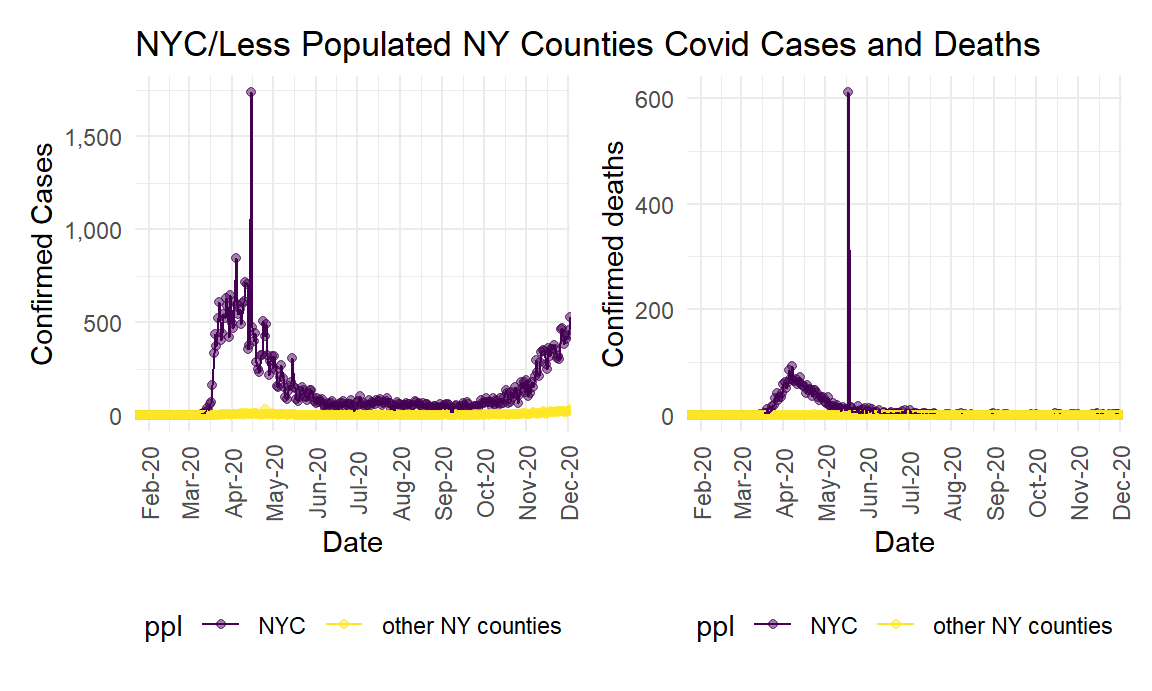
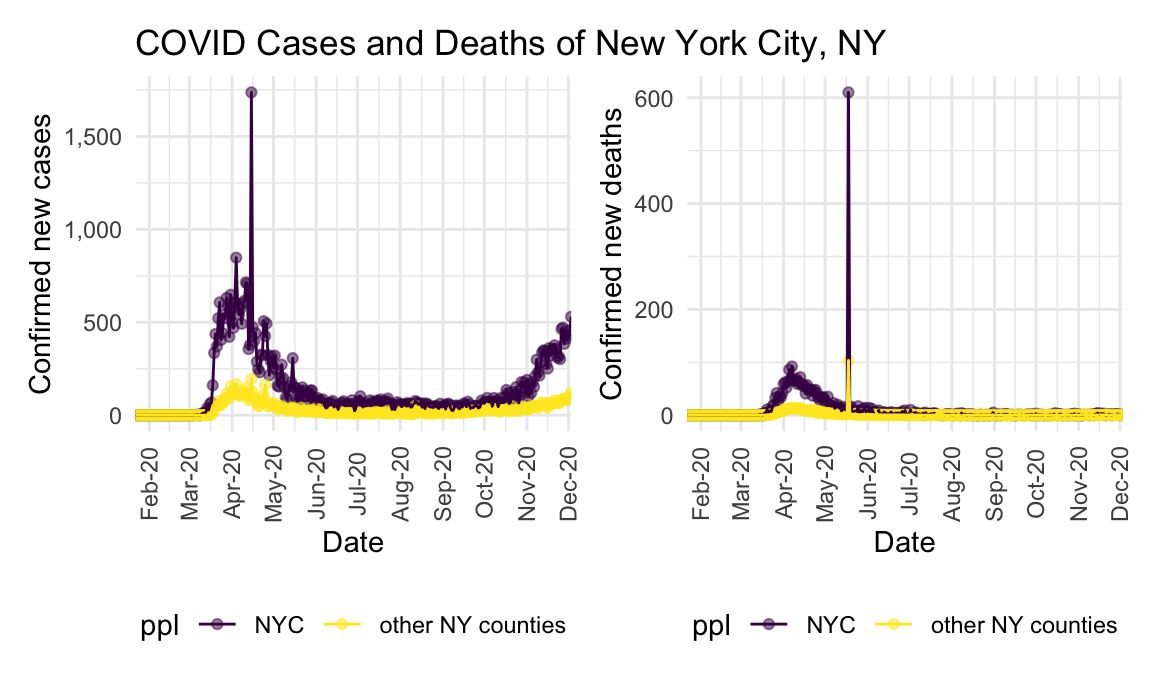
edits on comments and labels

diff --git a/descriptive_plotly.html b/descriptive_plotly.html
@@ -25,15 +25,6 @@
 <link href="site_libs/highlightjs-9.12.0/default.css" rel="stylesheet" />
 <script src="site_libs/highlightjs-9.12.0/highlight.js"></script>
 
-<style type="text/css">
-  code{white-space: pre-wrap;}
-  span.smallcaps{font-variant: small-caps;}
-  span.underline{text-decoration: underline;}
-  div.column{display: inline-block; vertical-align: top; width: 50%;}
-  div.hanging-indent{margin-left: 1.5em; text-indent: -1.5em;}
-  ul.task-list{list-style: none;}
-      </style>
-
 <style type="text/css">code{white-space: pre;}</style>
 <style type="text/css">
   pre:not([class]) {
@@ -344,14 +335,52 @@ $(document).ready(function () {
 </div>
 
 
-<pre class="r"><code>library(tidyverse)
-library(plotly)
-library(flexdashboard)
+<pre class="r"><code>library(tidyverse)</code></pre>
+<pre><code>## ── Attaching packages ─────────────────────────────────────── tidyverse 1.3.0 ──</code></pre>
+<pre><code>## ✓ ggplot2 3.3.2     ✓ purrr   0.3.4
+## ✓ tibble  3.0.3     ✓ dplyr   1.0.2
+## ✓ tidyr   1.1.2     ✓ stringr 1.4.0
+## ✓ readr   1.3.1     ✓ forcats 0.5.0</code></pre>
+<pre><code>## ── Conflicts ────────────────────────────────────────── tidyverse_conflicts() ──
+## x dplyr::filter() masks stats::filter()
+## x dplyr::lag()    masks stats::lag()</code></pre>
+<pre class="r"><code>library(plotly)</code></pre>
+<pre><code>## 
+## Attaching package: &#39;plotly&#39;</code></pre>
+<pre><code>## The following object is masked from &#39;package:ggplot2&#39;:
+## 
+##     last_plot</code></pre>
+<pre><code>## The following object is masked from &#39;package:stats&#39;:
+## 
+##     filter</code></pre>
+<pre><code>## The following object is masked from &#39;package:graphics&#39;:
+## 
+##     layout</code></pre>
+<pre class="r"><code>library(flexdashboard)
 library(readxl)
-require(scales)
-library(lubridate)
-library(httr)
-library(patchwork)
+require(scales)</code></pre>
+<pre><code>## Loading required package: scales</code></pre>
+<pre><code>## 
+## Attaching package: &#39;scales&#39;</code></pre>
+<pre><code>## The following object is masked from &#39;package:purrr&#39;:
+## 
+##     discard</code></pre>
+<pre><code>## The following object is masked from &#39;package:readr&#39;:
+## 
+##     col_factor</code></pre>
+<pre class="r"><code>library(lubridate)</code></pre>
+<pre><code>## 
+## Attaching package: &#39;lubridate&#39;</code></pre>
+<pre><code>## The following objects are masked from &#39;package:base&#39;:
+## 
+##     date, intersect, setdiff, union</code></pre>
+<pre class="r"><code>library(httr)</code></pre>
+<pre><code>## 
+## Attaching package: &#39;httr&#39;</code></pre>
+<pre><code>## The following object is masked from &#39;package:plotly&#39;:
+## 
+##     config</code></pre>
+<pre class="r"><code>library(patchwork)
 library(COVID19)
 
 knitr::opts_chunk$set(
@@ -410,12 +439,10 @@ mask_df = read_excel(&quot;./data/mask_state.xlsx&quot;) %&gt;%
   janitor::clean_names() %&gt;% 
   mutate(date = as.Date(as.numeric(as.character(date)), origin = &quot;1899-12-30&quot;)) %&gt;%
   dplyr::select(-x4)</code></pre>
-<pre><code>## Warning: Problem with `mutate()` input `date`.
-## i NAs introduced by coercion
-## i Input `date` is `as.Date(as.numeric(as.character(date)), origin = &quot;1899-12-30&quot;)`.</code></pre>
-<pre><code>## Warning in as.Date(as.numeric(as.character(date)), origin = &quot;1899-12-30&quot;): NAs
-## introduced by coercion</code></pre>
+<pre><code>## New names:
+## * `` -&gt; ...4</code></pre>
 <pre class="r"><code>cactus_df = left_join(covid_df, mask_df, by.x = c(&quot;state&quot;, &quot;date&quot;), by.y = c(&quot;state&quot;, &quot;date&quot;))</code></pre>
+<pre><code>## Joining, by = c(&quot;date&quot;, &quot;state&quot;)</code></pre>
 <p><strong>Making the first plot: Look at trends of new COVID cases by state over the past year<sup>I</sup>.</strong></p>
 <pre class="r"><code>time_plot = 
 covid_df %&gt;% 
@@ -469,6 +496,7 @@ covid_df %&gt;%
        x = &quot;Date&quot;) +
   scale_x_date(date_breaks = &quot;1 month&quot;, date_labels = &quot;%b-%y&quot;,expand = c(0,0)) +
   theme(axis.text.x = element_text(angle = 90, vjust = 0.5, hjust = 0.5))</code></pre>
+<pre><code>## `summarise()` regrouping output by &#39;state_binary&#39;, &#39;date&#39; (override with `.groups` argument)</code></pre>
 <pre class="r"><code>state_plot</code></pre>
 <pre><code>## Warning: Removed 18 rows containing missing values (geom_point).</code></pre>
 <p><img src="descriptive_plotly_files/figure-html/unnamed-chunk-7-1.png" width="90%" /></p>
@@ -487,6 +515,7 @@ covid_df %&gt;%
        x = &quot;Date&quot;) +
   scale_x_date(date_breaks = &quot;1 month&quot;, date_labels = &quot;%b-%y&quot;,expand = c(0,0)) +
   theme(axis.text.x = element_text(angle = 90, vjust = 0.5, hjust = 0.5))</code></pre>
+<pre><code>## `summarise()` regrouping output by &#39;state_binary&#39;, &#39;date&#39; (override with `.groups` argument)</code></pre>
 <pre class="r"><code>state_death</code></pre>
 <pre><code>## Warning: Removed 94 rows containing missing values (geom_point).</code></pre>
 <pre><code>## Warning: Removed 47 row(s) containing missing values (geom_path).</code></pre>
@@ -513,7 +542,6 @@ cactus_df =
     labs(title = &quot;Difference in new cases and mask mandate&quot;,
        y = &quot;Two week difference in confirmed new cases&quot;,
        x = &quot;State&quot;)</code></pre>
-<pre><code>## Warning: Removed 15435 rows containing missing values (geom_point).</code></pre>
 <p><img src="descriptive_plotly_files/figure-html/unnamed-chunk-11-1.png" width="90%" /></p>
 <p><strong>Observing two week difference in confirmed new COVID deaths from date of mask mandate in states that enforced a mandate</strong></p>
 <pre class="r"><code>cactus_df %&gt;% 
@@ -525,9 +553,8 @@ cactus_df =
     labs(title = &quot;Difference in new deaths and mask mandate&quot;,
        y = &quot;Four week difference in confirmed new deaths&quot;,
        x = &quot;State&quot;)</code></pre>
-<pre><code>## Warning: Removed 15440 rows containing missing values (geom_point).</code></pre>
 <p><img src="descriptive_plotly_files/figure-html/unnamed-chunk-12-1.png" width="90%" /></p>
-<p>Main cities (New York City, Los Angeles, Chicago/Cook County and Houston) compared to less populated counties regarding new cases and new death</p>
+<p><strong>In comparison of new COVID cases and deaths between main US cities (New York City, Los Angeles, Chicago/Cook County and Houston) and less populated counties<sup>II</sup></strong></p>
 <pre class="r"><code>confirmed_df = 
   read_csv(&quot;https://github.com/CSSEGISandData/COVID-19/raw/master/csse_covid_19_data/csse_covid_19_time_series/time_series_covid19_confirmed_US.csv&quot;) %&gt;% 
   select_all(tolower) %&gt;% 
@@ -610,7 +637,7 @@ lessppl_df =
   ) %&gt;% 
   select(-c(state.x, state.y)) %&gt;% 
   select(state, everything())</code></pre>
-<p>The most populated city - New York City vs. other less populated counties in New York state.</p>
+<p><strong>The most populated city - New York City vs. other less populated counties in New York state regarding new COVID cases and deaths<sup>II</sup>.</strong></p>
 <pre class="r"><code>nyc_df =
   confirmed_deaths_df %&gt;% 
   filter(county == &quot;New York&quot;)
@@ -623,7 +650,7 @@ ny_df =
   nyc_df %&gt;% 
   rbind(ny_lessppl_df) %&gt;% 
   mutate(ppl = ifelse(county == &quot;New York&quot;, &quot;NYC&quot;, &quot;other NY counties&quot;))</code></pre>
-<p>NYC has a population of 1628706, and the mean population of the 10 randomly selected NY counties is 73075.36.</p>
+<p>NYC has a population of 1628706, and the mean population of the 10 randomly selected NY counties is 271662.6.</p>
 <pre class="r"><code>ny_confirmed_plot =
   ny_df %&gt;% 
   group_by(ppl, date) %&gt;% 
@@ -632,8 +659,8 @@ ny_df =
   geom_point(alpha = 0.5) +
   geom_line() +
   scale_y_continuous(labels = comma) +
-  labs(title = &quot;NYC/Less Populated NY Counties Covid Cases and Deaths&quot;,
-       y = &quot;Confirmed Cases&quot;,
+  labs(title = &quot;COVID Cases and Deaths of New York City, NY&quot;,
+       y = &quot;Confirmed new cases&quot;,
        x = &quot;Date&quot;) +
   scale_x_date(date_breaks = &quot;1 month&quot;, date_labels = &quot;%b-%y&quot;,expand = c(0,0)) +
   theme(axis.text.x = element_text(angle = 90, vjust = 0.5, hjust = 0.5))</code></pre>
@@ -646,15 +673,14 @@ ny_df =
   geom_point(alpha = 0.5) +
   geom_line() +
   scale_y_continuous(labels = comma) +
-  labs(y = &quot;Confirmed deaths&quot;,
+  labs(y = &quot;Confirmed new deaths&quot;,
        x = &quot;Date&quot;) +
   scale_x_date(date_breaks = &quot;1 month&quot;, date_labels = &quot;%b-%y&quot;,expand = c(0,0)) +
   theme(axis.text.x = element_text(angle = 90, vjust = 0.5, hjust = 0.5))</code></pre>
 <pre><code>## `summarise()` regrouping output by &#39;ppl&#39; (override with `.groups` argument)</code></pre>
 <pre class="r"><code>ny_confirmed_plot + ny_deaths_plot</code></pre>
-<pre><code>## Warning: Removed 16 rows containing missing values (geom_point).</code></pre>
 <p><img src="descriptive_plotly_files/figure-html/unnamed-chunk-15-1.png" width="90%" /></p>
-<p>The second populated city - Los Angeles vs. other less populated counties in California.</p>
+<p><strong>The second populated city - Los Angeles vs. other less populated counties in California regarding new COVID cases and deaths<sup>II</sup>.</strong></p>
 <pre class="r"><code>la_df =
   confirmed_deaths_df %&gt;% 
   filter(county == &quot;Los Angeles&quot;)
@@ -667,7 +693,7 @@ ca_df =
   la_df %&gt;% 
   rbind(ca_lessppl_df) %&gt;% 
   mutate(ppl = ifelse(county == &quot;Los Angeles&quot;, &quot;LA&quot;, &quot;other CA counties&quot;))</code></pre>
-<p>Los Angeles has a population of 10039107, and the mean population of the 10 randomly selected CA counties is 251299.8.</p>
+<p>Los Angeles has a population of 10039107, and the mean population of the 10 randomly selected CA counties is 207461.7.</p>
 <pre class="r"><code>ca_confirmed_plot =
   ca_df %&gt;% 
   group_by(ppl, date) %&gt;% 
@@ -676,8 +702,8 @@ ca_df =
   geom_point(alpha = 0.5) +
   geom_line() +
   scale_y_continuous(labels = comma) +
-  labs(title = &quot;LA/Less Populated CA Counties Covid Cases and Deaths&quot;,
-       y = &quot;Confirmed Cases&quot;,
+  labs(title = &quot;COVID Cases and Deaths of Los Angeles, CA&quot;,
+       y = &quot;Confirmed new cases&quot;,
        x = &quot;Date&quot;) +
   scale_x_date(date_breaks = &quot;1 month&quot;, date_labels = &quot;%b-%y&quot;,expand = c(0,0)) +
   theme(axis.text.x = element_text(angle = 90, vjust = 0.5, hjust = 0.5))</code></pre>
@@ -690,14 +716,14 @@ ca_df =
   geom_point(alpha = 0.5) +
   geom_line() +
   scale_y_continuous(labels = comma) +
-  labs(y = &quot;Confirmed deaths&quot;,
+  labs(y = &quot;Confirmed new deaths&quot;,
        x = &quot;Date&quot;) +
   scale_x_date(date_breaks = &quot;1 month&quot;, date_labels = &quot;%b-%y&quot;,expand = c(0,0)) +
   theme(axis.text.x = element_text(angle = 90, vjust = 0.5, hjust = 0.5))</code></pre>
 <pre><code>## `summarise()` regrouping output by &#39;ppl&#39; (override with `.groups` argument)</code></pre>
 <pre class="r"><code>ca_confirmed_plot + ca_deaths_plot</code></pre>
 <p><img src="descriptive_plotly_files/figure-html/unnamed-chunk-17-1.png" width="90%" /></p>
-<p>The third populated city - Chicago (part of Cook County) vs. other less populated counties in Illinois.</p>
+<p><strong>The third populated city - Chicago (part of Cook County) vs. other less populated counties in Illinois regarding new COVID cases and deaths<sup>II</sup>.</strong></p>
 <pre class="r"><code>chicago_df =
   confirmed_deaths_df %&gt;% 
   filter(county == &quot;Cook&quot;)
@@ -710,7 +736,7 @@ il_df =
   chicago_df %&gt;% 
   rbind(il_lessppl_df) %&gt;% 
   mutate(ppl = ifelse(county == &quot;Cook&quot;, &quot;Cook County (Chicago)&quot;, &quot;other IL counties&quot;))</code></pre>
-<p>Cook County (Chicago included) has a population of 5150233, and the mean population of the 10 randomly selected IL counties is 68940.94.</p>
+<p>Cook County (Chicago included) has a population of 5150233, and the mean population of the 10 randomly selected IL counties is 165878.3.</p>
 <pre class="r"><code>il_confirmed_plot =
   il_df %&gt;% 
   group_by(ppl, date) %&gt;% 
@@ -719,8 +745,8 @@ il_df =
   geom_point(alpha = 0.5) +
   geom_line() +
   scale_y_continuous(labels = comma) +
-  labs(title = &quot;Cook County/Less Populated IL Counties Covid Cases and Deaths&quot;,
-       y = &quot;Confirmed Cases&quot;,
+  labs(title = &quot;COVID Cases and Deaths of Cook County/Chicago, IL&quot;,
+       y = &quot;Confirmed new cases&quot;,
        x = &quot;Date&quot;) +
   scale_x_date(date_breaks = &quot;1 month&quot;, date_labels = &quot;%b-%y&quot;,expand = c(0,0)) +
   theme(axis.text.x = element_text(angle = 90, vjust = 0.5, hjust = 0.5))</code></pre>
@@ -733,14 +759,14 @@ il_df =
   geom_point(alpha = 0.5) +
   geom_line() +
   scale_y_continuous(labels = comma) +
-  labs(y = &quot;Confirmed deaths&quot;,
+  labs(y = &quot;Confirmed new deaths&quot;,
        x = &quot;Date&quot;) +
   scale_x_date(date_breaks = &quot;1 month&quot;, date_labels = &quot;%b-%y&quot;,expand = c(0,0)) +
   theme(axis.text.x = element_text(angle = 90, vjust = 0.5, hjust = 0.5))</code></pre>
 <pre><code>## `summarise()` regrouping output by &#39;ppl&#39; (override with `.groups` argument)</code></pre>
 <pre class="r"><code>il_confirmed_plot + il_deaths_plot</code></pre>
 <p><img src="descriptive_plotly_files/figure-html/unnamed-chunk-19-1.png" width="90%" /></p>
-<p>The fourth populated city - Houston vs. other less populated counties in Texas.</p>
+<p><strong>The fourth populated city - Houston vs. other less populated counties in Texas regarding new COVID cases and deaths<sup>II</sup>.</strong></p>
 <pre class="r"><code>houston_df =
   confirmed_deaths_df %&gt;% 
   filter(county == &quot;Houston&quot;)
@@ -753,7 +779,7 @@ tx_df =
   houston_df %&gt;% 
   rbind(tx_lessppl_df) %&gt;% 
   mutate(ppl = ifelse(county == &quot;Houston&quot;, &quot;Houston&quot;, &quot;other TX counties&quot;))</code></pre>
-<p>Houston has a population of 22968, and the mean population of the 10 randomly selected TX counties is 38274.91.</p>
+<p>Houston has a population of 22968, and the mean population of the 10 randomly selected TX counties is 41614.7.</p>
 <pre class="r"><code>tx_confirmed_plot =
   tx_df %&gt;% 
   group_by(ppl, date) %&gt;% 
@@ -763,8 +789,8 @@ tx_df =
   geom_line() +
   scale_color_manual(values = c(&quot;Houston&quot; = &quot;black&quot;, &quot;other TX counties&quot; = &quot;orange&quot;)) +
   scale_y_continuous(labels = comma) +
-  labs(title = &quot;Houston/Less Populated TX Counties Covid Cases and Deaths&quot;,
-       y = &quot;Confirmed Cases&quot;,
+  labs(title = &quot;COVID Cases and Deaths of Houston, TX&quot;,
+       y = &quot;Confirmed new cases&quot;,
        x = &quot;Date&quot;) +
   scale_x_date(date_breaks = &quot;1 month&quot;, date_labels = &quot;%b-%y&quot;,expand = c(0,0)) +
   theme(axis.text.x = element_text(angle = 90, vjust = 0.5, hjust = 0.5)) </code></pre>
@@ -778,19 +804,35 @@ tx_df =
   geom_line() +
   scale_color_manual(values = c(&quot;Houston&quot; = &quot;black&quot;, &quot;other TX counties&quot; = &quot;orange&quot;)) +
   scale_y_continuous(labels = comma) +
-  labs(y = &quot;Confirmed deaths&quot;,
+  labs(y = &quot;Confirmed new deaths&quot;,
        x = &quot;Date&quot;) +
   scale_x_date(date_breaks = &quot;1 month&quot;, date_labels = &quot;%b-%y&quot;,expand = c(0,0)) +
   theme(axis.text.x = element_text(angle = 90, vjust = 0.5, hjust = 0.5))</code></pre>
 <pre><code>## `summarise()` regrouping output by &#39;ppl&#39; (override with `.groups` argument)</code></pre>
 <pre class="r"><code>tx_confirmed_plot + tx_deaths_plot</code></pre>
-<pre><code>## Warning: Removed 14 rows containing missing values (geom_point).</code></pre>
 <p><img src="descriptive_plotly_files/figure-html/unnamed-chunk-21-1.png" width="90%" /></p>
-<p>Texas is one of the sub-tropical states.</p>
-<p>Comparing overall us cases and deaths with important national events</p>
-<pre class="r"><code>library(sars2pack)
-
-us_df = jhu_data() %&gt;% 
+<p>Texas is one of the sub-tropical states compared to NY, CA and IL (temperate), and it is marked by different colors.</p>
+<p><em>Comparing overall US new COVID cases and deaths with important national events</em></p>
+<pre class="r"><code>library(sars2pack)</code></pre>
+<pre><code>## Loading required package: R0</code></pre>
+<pre><code>## Loading required package: MASS</code></pre>
+<pre><code>## 
+## Attaching package: &#39;MASS&#39;</code></pre>
+<pre><code>## The following object is masked from &#39;package:patchwork&#39;:
+## 
+##     area</code></pre>
+<pre><code>## The following object is masked from &#39;package:plotly&#39;:
+## 
+##     select</code></pre>
+<pre><code>## The following object is masked from &#39;package:dplyr&#39;:
+## 
+##     select</code></pre>
+<pre><code>## Loading required package: sf</code></pre>
+<pre><code>## Linking to GEOS 3.8.1, GDAL 3.1.1, PROJ 6.3.1</code></pre>
+<pre><code>## Registered S3 method overwritten by &#39;quantmod&#39;:
+##   method            from
+##   as.zoo.data.frame zoo</code></pre>
+<pre class="r"><code>us_df = jhu_data() %&gt;% 
   janitor::clean_names() %&gt;% 
   filter(country_region == &quot;US&quot;)
 
@@ -809,10 +851,9 @@ events_df =
   read_excel(&quot;./data/national_events.xlsx&quot;) 
 
 
-us_events_df = left_join(us_covid_df, events_df, by.x = c(&quot;date&quot;), by.y = c( &quot;date&quot;))
-
-
-us_events_df = 
+us_events_df = left_join(us_covid_df, events_df, by.x = c(&quot;date&quot;), by.y = c( &quot;date&quot;))</code></pre>
+<pre><code>## Joining, by = &quot;date&quot;</code></pre>
+<pre class="r"><code>us_events_df = 
   us_events_df %&gt;% 
   mutate(in_two_weeks_mask = if_else(!(is.na(event)), lead(new_case, 14), NA_real_)) %&gt;%
   mutate(diff = in_two_weeks_mask - new_case)
@@ -822,21 +863,23 @@ us_events_df =
   us_events_df %&gt;% 
   mutate(in_two_weeks_death = if_else(!(is.na(event)), lead(new_deaths, 30), NA_real_)) %&gt;% 
   mutate(diff_death = in_two_weeks_death - new_deaths)</code></pre>
+<p><strong>Daily new COVID cases over the past year with important national events<sup>III</sup></strong></p>
 <pre class="r"><code>us_events_df %&gt;%  
   ggplot(aes(x = date, y = new_case)) +
   geom_point() +
-    labs(title = &quot;New cases over time&quot;,
-       y = &quot;new cases&quot;,
-       x = &quot;date&quot;) +
+    labs(title = &quot;New COVID cases over time&quot;,
+       y = &quot;Confirmed new cases&quot;,
+       x = &quot;Date&quot;) +
       geom_vline(data = events_df, mapping = aes(xintercept = date) ,linetype = &quot;dotted&quot;,color = &quot;blue&quot;, show.legend = TRUE) +
   geom_text(data = events_df, mapping = aes(x = date, y = 75000, label = event), size = 2.5, angle = 90, vjust = -0.4, hjust = 0)</code></pre>
 <p><img src="descriptive_plotly_files/figure-html/unnamed-chunk-23-1.png" width="90%" /></p>
+<p><strong>Daily new COVID deaths over the past year with important national events<sup>III</sup></strong></p>
 <pre class="r"><code>us_events_df %&gt;%  
   ggplot(aes(x = date, y = new_deaths)) +
   geom_point() +
-    labs(title = &quot;New deaths over time&quot;,
-       y = &quot;new deaths&quot;,
-       x = &quot;date&quot;) +
+    labs(title = &quot;New COVID deaths over time&quot;,
+       y = &quot;Confirmed new deaths&quot;,
+       x = &quot;Date&quot;) +
       geom_vline(data = events_df, mapping = aes(xintercept = date) , linetype = &quot;dotted&quot;, color = &quot;blue&quot;, show.legend = TRUE) +
   geom_text(data = events_df, mapping = aes(x = date, y = 1000, label = event), size = 2.5, angle = 90, vjust = -0.4, hjust = 0)</code></pre>
 <p><img src="descriptive_plotly_files/figure-html/unnamed-chunk-24-1.png" width="90%" /></p>
